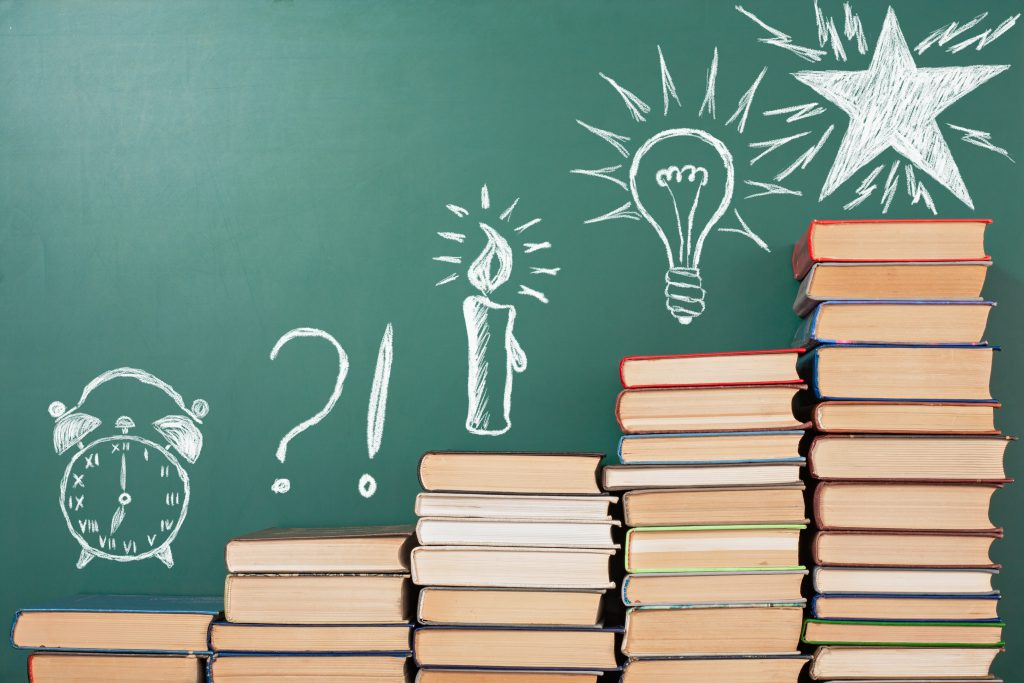
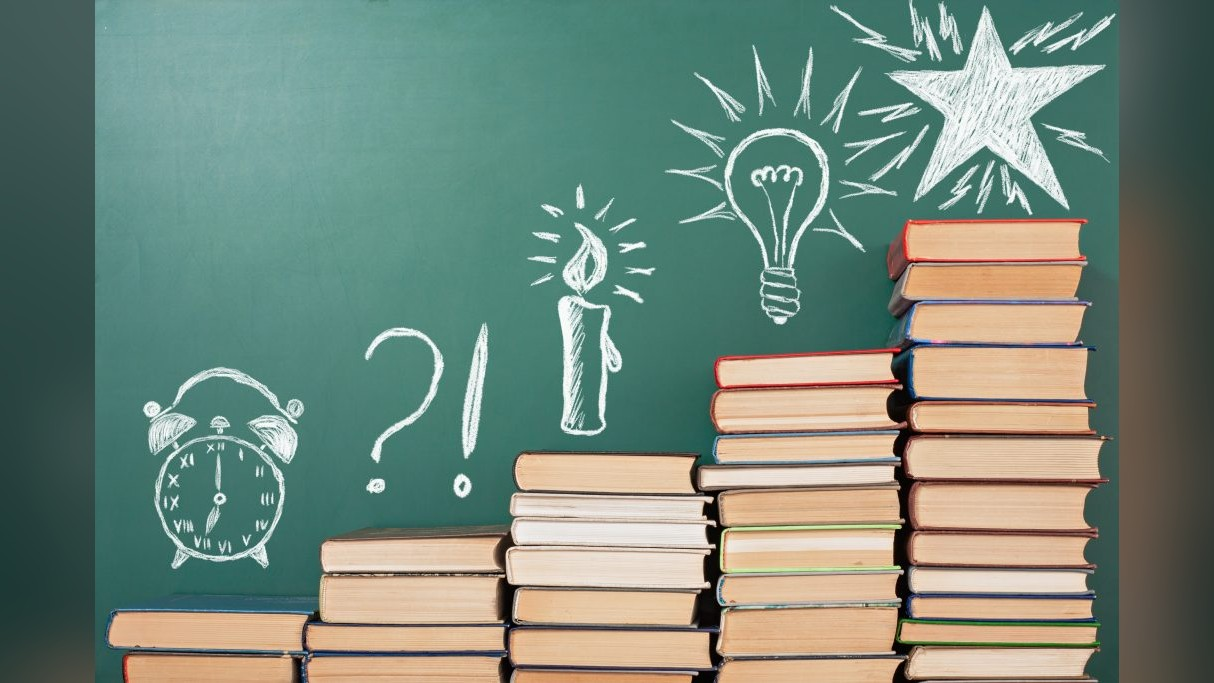
feat(content): add CoreSoft role, Azubi and AWS certifications, and Ledger project
The site now reflects my current role as a Software Engineer at CoreSoft
Technologies, the end of the Bits and Bytes engagement, and the Azubi Africa
cloud computing certificate and AWS Cloud Essentials certification.

The title, home headline and introduction now lead with backend, cloud and
DevOps. Ledger gets a case study page and a 16:9 cover, and replaces
ElectionHub as the featured project. The Skin Detection and Student Success
covers are widened to 16:9 so they no longer fill the screen in the project
list. New profile photo.

diff --git a/src/resources/content.tsx b/src/resources/content.tsx
@@ -5,7 +5,7 @@ const person: Person = {
   firstName: "Kofi",
   lastName: "Corletey",
   name: `Kofi Corletey`,
-  role: "Backend Engineer & Machine Learning Developer",
+  role: "Software Engineer — Backend, Cloud & DevOps",
   avatar: "/images/avatar.jpg",
   email: "mkcorletey@gmail.com",
   location: "Africa/Accra", // Expecting the IANA time zone identifier, e.g., 'Europe/Vienna'
@@ -44,22 +44,22 @@ const home: Home = {
   label: "Home",
   title: `${person.name}'s Portfolio`,
   description: `Portfolio website showcasing my work as a ${person.role}`,
-  headline: <>Building scalable systems and intelligent models.</>,
+  headline: <>Building secure, scalable systems, from code to cloud.</>,
   featured: {
   display: true,
   title: (
   <Row gap="12" vertical="center">
-  <strong className="ml-4">ElectionHub</strong>{" "}
+  <strong className="ml-4">Ledger</strong>{" "}
   <Line background="brand-alpha-strong" vert height="20" />
   <Text marginRight="4" onBackground="brand-medium">Featured project</Text>
   </Row>
   ),
-  href: "/work/electionhub-secure-realtime-voting",
+  href: "/work/ledger",
   },
   subline: (
     <>
-      I'm {person.firstName}, a backend & ML developer focused on building secure, real‑time
-      systems, and developing data‑driven products that solve real problems.
+      I'm {person.firstName}, a software engineer focused on secure backends, reliable cloud
+      infrastructure and automated delivery, building products that solve real problems.
     </>
   ),
 };
@@ -85,9 +85,13 @@ const about: About = {
     title: "Introduction",
     description: (
       <>
-        {person.firstName} is a backend and machine learning developer with hands‑on experience in
-        Python/Django, RESTful APIs, PostgreSQL, and PyTorch. He blends systems design with
-        applied ML, with a strong focus on security, real‑time dashboards, and data quality for model training.
+        {person.firstName} is a software engineer with a background spanning full‑stack development,
+        cloud engineering, DevOps and machine learning. He has designed and deployed highly available
+        cloud infrastructure with automated CI/CD pipelines, infrastructure monitoring and security‑first
+        cloud practices. He contributed to a secure, real‑time voting platform and supported large‑scale
+        machine learning work through visual‑language dataset annotation, quality assurance and
+        research‑driven model development. His focus is system design, secure API development and
+        end‑to‑end product delivery.
       </>
     ),
   },
@@ -96,8 +100,18 @@ const about: About = {
     title: "Work Experience",
     experiences: [
       {
+        company: "CoreSoft Technologies",
+        timeframe: "May 2026 – Present",
+        role: "Software Engineer",
+        achievements: [
+          <>Build and maintain <b>lending</b>, <b>finance</b> and <b>HR</b> systems that handle money and personal data in a regulated environment.</>,
+          <>Work within a review-and-test discipline: branch-based Git workflow, code review, automated tests and CI-built releases.</>,
+        ],
+        images: [],
+      },
+      {
         company: "Bits and Bytes Consulting",
-        timeframe: "Jan 2025 – Present",
+        timeframe: "Jan 2025 – Aug 2025",
         role: "Principal Backend Developer (ElectionHub)",
         achievements: [
         <>Architected a secure, real‑time voting platform (Python, Django, DRF, PostgreSQL, WebSockets) with OTP verification, device locking, JWT auth, and tamper‑evident audit logs.</>,
@@ -140,6 +154,14 @@ const about: About = {
       {
         name: "University of Ghana — BSc. Computer Science",
         description: <>Relevant coursework: Machine Learning, Data Structures, Computer Networks, Software Engineering.</>,
+      },
+      {
+        name: "Azubi Africa — Certificate, Cloud Computing",
+        description: <>AWS infrastructure, DevOps and deployment automation. Built a highly available multi-tier AWS application with a GitHub Actions CI/CD pipeline.</>,
+      },
+      {
+        name: "AWS Cloud Essentials — Amazon Web Services (AWS)",
+        description: <>Foundations of AWS cloud concepts, core services, security, and pricing and support models.</>,
       },
       {
         name: "Huawei HCIA Security — Certified",
